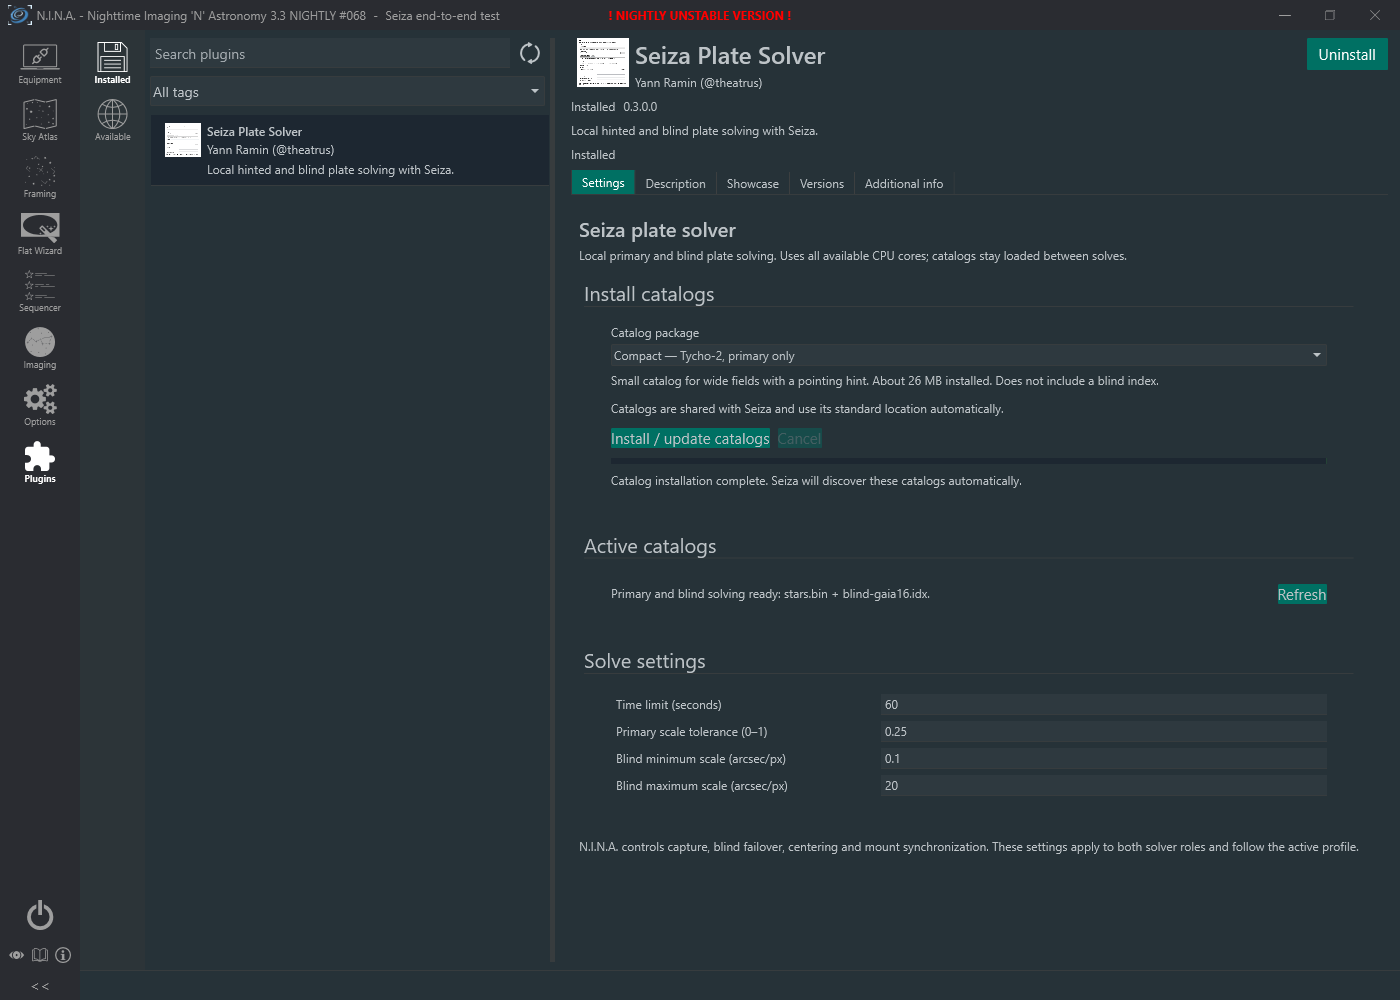
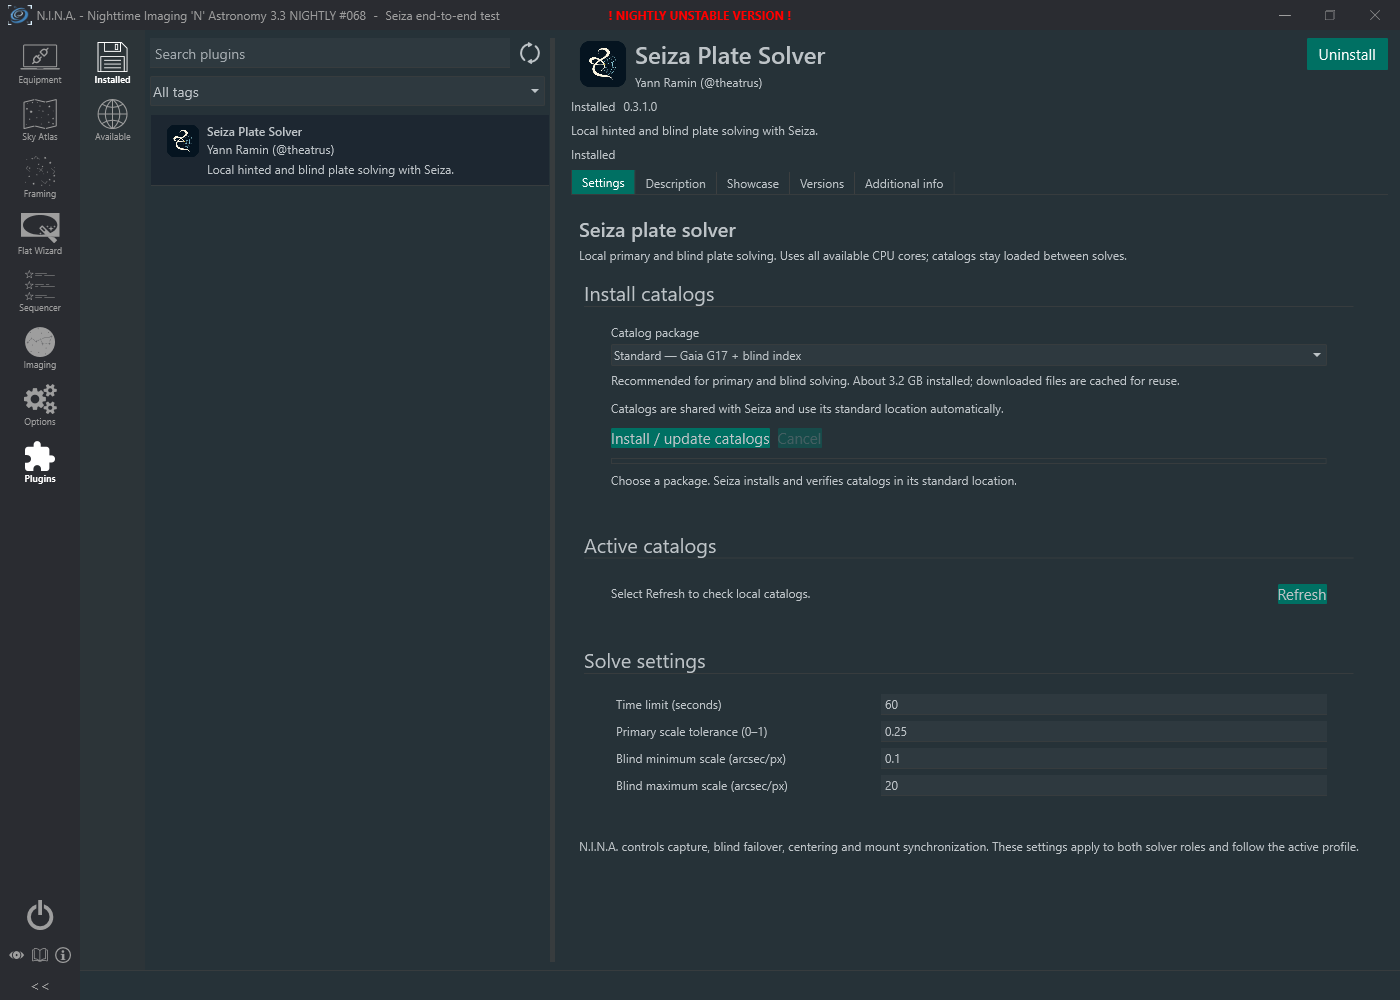
Refresh README screenshots with the current Seiza plugin UI

diff --git a/README.md b/README.md
@@ -22,7 +22,9 @@ Catalogs are discovered automatically; solve settings follow the active profile.
 | Compact | Tycho-2; wide-field primary solving only | 26 MB |
 | Deep | Gaia G20 + blind index; faint, narrow fields | 10.3 GB |
 
-![Seiza plugin settings in N.I.N.A.](docs/images/catalog-options.png)
+![Seiza v0.3.1 plugin settings in N.I.N.A.](docs/images/catalog-options.png)
+
+![Plate-solve result in N.I.N.A.](docs/images/nina-solve-result.png)
 
 ## Build and test
 
